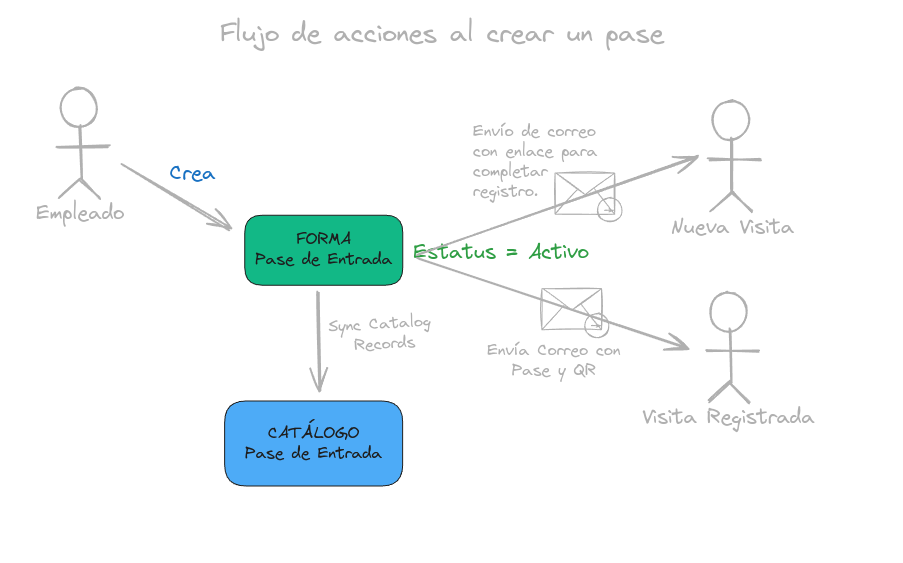
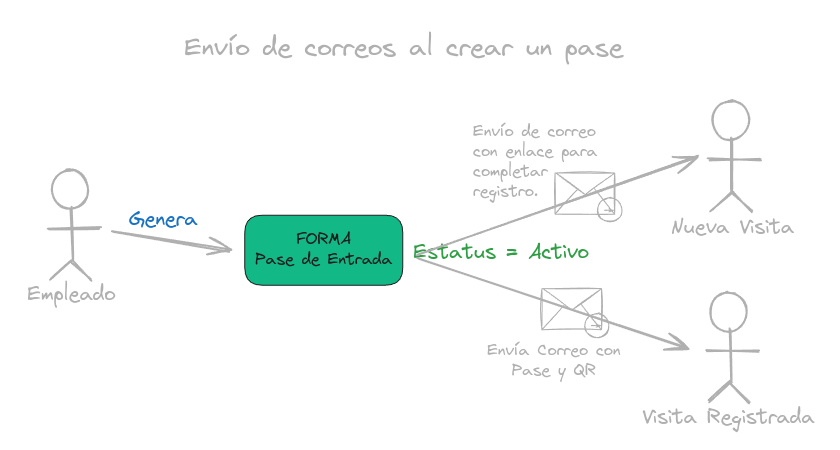
Actualización del módulo Seguridad, parte pases de entrada y módulo contratistas

diff --git a/content/Usuario/Modulos/Accesos/index.rst b/content/Usuario/Modulos/Accesos/index.rst
@@ -536,7 +536,29 @@ Observe el siguiente diagrama y revise las siguientes secciones para obtener má
 Catálogo: ``Tipos de Vehículos``
 ^^^^^^^^^^^^^^^^^^^^^^^^^^^^^^^^
 
-Este catálogo se instala con registros por defecto y contiene una lista de tipos de vehículos, marcas y modelos.
+Este catálogo contiene los diferentes tipos de vehículos que pueden ser registrados para las visitas. Revise las siguientes pestañas para obtener más detalles sobre la estructura del catálogo y ejemplos de registros.
+
+.. tab-set::
+
+   .. tab-item:: Estructura
+
+      Este catálogo incluye los siguientes campos:
+
+      - **Tipo de Vehículo**: Describe la categoría del vehículo, como automóvil, camioneta, moto, entre otros.
+      - **Marca**: Indica la marca del vehículo, por ejemplo, Toyota, Ford, Honda, etc.
+      - **Modelo**: Especifica el modelo del vehículo, proporcionando más detalles sobre la versión o variante de la marca.
+
+      .. image:: /imgs/Modulos/Accesos/Accesos68.png
+
+   .. tab-item:: Registros
+
+      Cada registro representa información específica sobre un vehículo.
+
+      .. image:: /imgs/Modulos/Accesos/Accesos69.png
+
+      .. note:: Al instalar el módulo, se incluyen registros precargados que abarcan la mayoría de los vehículos existentes. Sin embargo, considere agregar más registros según lo requiera.
+
+.. _form-pase-entrada:
 
 Forma: ``Pase de Entrada``
 ^^^^^^^^^^^^^^^^^^^^^^^^^^
@@ -553,12 +575,14 @@ Para responder la forma, revise las siguientes pestañas que detallan los campos
 
    .. tab-item:: Selección de Visitante
 
-      **Selección de Visitante**: Candidato para generar el pase de entrada. Consulte el siguiente menú desplegable para más detalles sobre las opciones disponibles.
+      **Selección de Visitante**: Persona para la cual se generará el pase de entrada.
 
-      .. image:: /imgs/Modulos/Accesos/Accesos46.png
+      Una vez que haya seleccionado al visitante y el pase esté en estado **Activo**, consulte el siguiente flujo que ilustra las acciones involucradas en la creación del pase de entrada. Para más detalles sobre las opciones, consulte el menú desplegable a continuación.
+
+      .. image:: /imgs/Modulos/Accesos/Accesos65.png
 
       .. dropdown:: Opciones
-         .. :open:
+
 
          .. tab-set::
 
@@ -624,7 +648,6 @@ Para responder la forma, revise las siguientes pestañas que detallan los campos
                   Observe el siguiente ejemplo de correo para un pase de entrada activo.
 
                   .. image:: /imgs/Modulos/Accesos/Accesos49.png
-                     :align: center
                      :width: 600 px
 
    .. tab-item:: Ubicación
@@ -658,7 +681,7 @@ Para responder la forma, revise las siguientes pestañas que detallan los campos
 
       .. image:: /imgs/Modulos/Accesos/Accesos53.png
 
-      .. hint:: Si observa que en el catálogo aparecen empleados de otra ubicación, asegúrese de que, en la forma, el catálogo esté correctamente relacionado con el catálogo **Ubicaciones** para filtrar correctamente a las personas según su ubicación.
+      .. hint:: Si observa que en el catálogo muestra empleados pertenecientes a otra ubicación, asegúrese de que, en la forma, el catálogo esté correctamente relacionado con el catálogo **Ubicaciones** para filtrar correctamente a las personas según su ubicación.
          
          Consulte :ref:`section-forms` :octicon:`report;1em;sd-text-info` para obtener más información sobre como relacionar catálogos.
 
@@ -670,7 +693,7 @@ Para responder la forma, revise las siguientes pestañas que detallan los campos
 
       .. image:: /imgs/Modulos/Accesos/Accesos54.png
       
-      .. hint:: Si observa que en el catálogo aparecen empleados de otra ubicación, asegúrese de que, en la forma, el catálogo esté correctamente relacionado con el catálogo **Ubicaciones** para filtrar correctamente a las personas según su ubicación.
+      .. hint:: Si observa que en el catálogo muestra empleados de otra ubicación, asegúrese de que, en la forma, el catálogo esté correctamente relacionado con el catálogo **Ubicaciones** para filtrar correctamente a las personas según su ubicación.
          
          Consulte :ref:`section-forms` :octicon:`report;1em;sd-text-info` para obtener más información sobre como relacionar catálogos.
 
@@ -680,14 +703,12 @@ Para responder la forma, revise las siguientes pestañas que detallan los campos
 
       .. .. image:: /imgs/Modulos/Accesos/Accesos55.png
 
-      **Fecha Fija**: El pase es válido para un solo día, útil para visitas de un solo día. 
+      **Fecha Fija**: El pase es válido para un solo día, útil para visitas espontaneas. 
                   
-      Si selecciona esta opción, deberá especificar la Fecha y hora de visita. Observe el ejemplo:
-                     
+      .. warning:: Si selecciona esta opción, deberá especificar la **fecha de vigencia** y la **hora límite** del pase. Esto significa que el pase será válido desde el inicio del día seleccionado hasta la hora indicada. Por ejemplo, si establece la hora límite a las 7:56 p.m., el pase será válido hasta esa hora y luego se considerará vencido.
+
       .. image:: /imgs/Modulos/Accesos/Accesos56.gif
       
-      .. warning:: Al seleccionar **Fecha Fija**, el pase solo estará vigente el día y hora indicados. Después de esa fecha y hora, el pase se considerará vencido.
-
       **Rango de fechas**: El pase es válido durante un rango de fechas, ideal para visitas recurrentes.
 
       Si selecciona esta opción, debe especificar lo siguiente:
@@ -706,11 +727,11 @@ Para responder la forma, revise las siguientes pestañas que detallan los campos
 
             - **Limitar número de accesos a**: Define cuántas veces por día la visita puede ingresar.
 
-            .. note:: Si no se especifica una cantidad, se asume que no hay límite de entradas por día.
+            .. attention:: Si no se especifica una cantidad, se asume que no hay límite de entradas por día.
 
-            - **Seleccione los días de acceso**: Seleccione los días específicos en los que la visita tendrá permiso para acceder.
+            - **Seleccione los días de acceso**: Días específicos en los que la visita tendrá permiso para acceder.
 
-            .. warning:: Aunque el pase tenga un rango de fechas vigente, si no selecciona los días específicos de acceso, podría causar problemas en la caseta de seguridad, ya que el sistema indicaría que en esos días la visita no debe estar en las instalaciones.
+            .. warning:: Aunque el pase tenga un rango de fechas vigente, si no selecciona los días de acceso, podría causar problemas en la caseta de seguridad, ya que el sistema indicaría que en esos días la visita no debe estar en las instalaciones.
 
          .. grid-item-card::
             :columns: 6
@@ -804,21 +825,35 @@ Para responder la forma, revise las siguientes pestañas que detallan los campos
 
    .. tab-item:: QR
       
-      Los siguientes campos son de solo lectura y se generan automáticamente a través de un script. Estos permanecen ocultos ya que no requieren interacción del usuario. 
+      Los siguientes campos se generan automáticamente a través de un script. Estos permanecen ocultos ya que no requieren interacción del usuario. 
 
       .. image:: /imgs/Modulos/Accesos/Accesos63.png
 
       - **QR**: Código QR generado para el pase de entrada.
       - **QR Code**: Identificador del pase de entrada.
 
-Siga el flujo para comprender el proceso que ocurre al responder la forma.
+.. attention::
 
-.. image:: /imgs/Modulos/Accesos/Accesos65.png
+   Los registros de esta forma son utilizadas en otras formas, por lo que es necesario que estén disponibles también en un catálogo. Los registros de esta forma deben estar sincronizados con el catálogo `Pase de Entrada <#catalog-pase-entrada>`_ :octicon:`report;1em;sd-text-info`. Para más detalles, consulte el catálogo y revise los siguientes ejemplos de registros:
 
-Sincronización y Notificaciones
-La forma **Pase de Entrada** se sincroniza automáticamente con el catálogo **Pase de Entrada**. A continuación, se describen los campos necesarios para responder la forma:
+   .. image:: /imgs/Modulos/Accesos/Accesos66.png
+      :width: 880px
 
-Al completar y enviar la forma, la información se sincroniza automáticamente con el catálogo **Pase de Entrada**. El visitante recibirá un correo electrónico con su invitación, dependiendo de si es un nuevo visitante o un visitante registrado.
+.. _catalog-pase-entrada:
+
+Catálogo: ``Pase de Entrada``
+^^^^^^^^^^^^^^^^^^^^^^^^^^^^^
+
+Este catálogo contiene los mismos registros que de la forma `pase de entrada <#form-pase-entrada>`_ :octicon:`report;1em;sd-text-info`. 
+
+Su estructura es similar a la de la forma, pero a diferencia de esta, los catálogos no pueden incluir campos de grupo repetitivo. Sin embargo, es posible sincronizar registros entre la forma y el catálogo, omitiendo la información de los grupos repetitivos. Por lo tanto, no es necesario completar el catálogo manualmente; simplemente complete la forma para crear un pase de entrada y LinkaForm se encargará de sincronizar automáticamente el registro en este catálogo.
+
+.. note:: Para asegurarse de que la sincronización funcione correctamente, si se agregan nuevos campos (que no sean grupos repetitivos) en la forma, asegúrese de incluirlos también en el catálogo.
+
+Para más detalles de la estructura consulte la forma y observe los registros que se presentan a continuación:
+
+.. image:: /imgs/Modulos/Accesos/Accesos67.png
+   :width: 880px
 
 .. LIGAS EXTERNAS
 

diff --git a/content/Usuario/Modulos/Contratistas/index.rst b/content/Usuario/Modulos/Contratistas/index.rst
@@ -4,17 +4,22 @@
 Módulo Contratistas
 ===================
 
-El **Módulo Contratistas** proporciona los elementos base necesarios para gestionar y administrar la información de múltiples contratistas. Este módulo es importante para el :ref:`doc-accesos` :octicon:`report;1em;sd-text-info`.
+El **Módulo Contratistas** facilita la gestión y administración de la información de múltiples contratistas, además de permitir la ejecución de procesos específicos que involucran a los contratistas.
 
-Observe y analice el siguiente diagrama de flujo del módulo compañía. Este diagrama representa el flujo de acciones necesarias para registrar y gestionar la información de los contratistas.
+.. warning:: Este módulo es importante para el :ref:`doc-accesos` :octicon:`report;1em;sd-text-info`.
+
+Alta de Contratistas
+====================
+
+Observe y analice el siguiente diagrama de flujo. Este diagrama representa el flujo de acciones necesarias para registrar y gestionar la información de los contratistas.
 
 .. image:: /imgs/Modulos/Contratistas/Contratistas1.png
     :align: center
 
 .. _form-contratistas:
 
-Forma del Módulo Contratistas
-=============================
+Forma: ``Contratistas`` 
+^^^^^^^^^^^^^^^^^^^^^^^
 
 La forma **Contratistas** permite ingresar y gestionar toda la información relevante sobre los diferentes contratistas.
 
@@ -75,8 +80,8 @@ Una vez completada la solicitud, proceda con la autorización dentro de la empre
             
 .. _catalog-contratistas:
 
-Catálogo del Módulo Contratistas
-================================
+Catálogo: ``Contratistas`` 
+^^^^^^^^^^^^^^^^^^^^^^^^^^
 
 El catálogo **Contratistas** contiene los mismos registros que de la `forma contratistas <#form-contratistas>`_ :octicon:`report;1em;sd-text-info`.
 
@@ -100,8 +105,8 @@ Para acceder al catálogo, seleccione la opción ``Catálogos > Catálogos`` en 
 
 .. _alta-contratista:
 
-Alta de Contratista
-===================
+Completar Alta de Contratista
+=============================
 
 Si es contratista, siga siga los siguientes pasos para completar su alta:
 
@@ -113,7 +118,7 @@ Si es contratista, siga siga los siguientes pasos para completar su alta:
 .. image:: /imgs/Modulos/Contratistas/Contratistas5.png
 
 3. Presione el hipervínculo al final del correo. Será redirigido a una nueva pestaña con una forma prellenada.
-4. Revise que los datos generales registrados sean correctos, de lo contrario, actualícelos.
+4. Revise que los datos generales registrados sean correctos, de lo contrario actualice la información.
 5. Complete la sección de documentos y suba los archivos requeridos.
 6. Cambie el ``Estatus Solicitud`` a ``Completada`` **solo si** ha completado toda la información solicitada. De lo contrario, no modifique el ``estatus`` hasta que termine su captura.
 
@@ -125,11 +130,49 @@ Si es contratista, siga siga los siguientes pasos para completar su alta:
 
 .. _carga-permisos-visitas:
 
-Carga de Permisos de Visitantes
-===============================
+Carga de Permisos para Empleados
+================================
 
-lorem
+La carga de permisos es el proceso mediante el cual los contratistas se encargan de registrar o cargar los permisos necesarios para sus empleados, según los requisitos establecidos por la empresa o la ubicación a la que buscan acceder.
 
+Este proceso permite que los empleados obtengan la autorización de acceso una vez que cumplan con los permisos solicitados, asegurando que todos los requisitos estén en regla antes de otorgarles el acceso a la instalación.
+
+Forma: ``Carga de Permisos de Visitantes``
+^^^^^^^^^^^^^^^^^^^^^^^^^^^^^^^^^^^^^^^^^^
+
+Esta forma está diseñada para facilitar la administración de los permisos requeridos para los visitantes, permitiendo cargar documentación, establecer fechas de vigencia y proporcionar otros detalles relevantes. A través de esta forma, se asegura que todos los permisos solicitados estén debidamente registrados y actualizados para permitir el acceso autorizado a las instalaciones.
+
+Revise las siguientes pestañas para obtener más detalles sobre la estructura de la forma y ejemplos de registros.
+
+.. tab-set::
+
+    .. tab-item:: Estructura
+
+        La forma está compuesta por los siguientes campos:
+
+        - **Razón Social**: 
+
+        .. caution:: Solo podrá ver su propia razón social. Si por algún motivo visualiza una razón social diferente a la suya, omita esa información y no la seleccione bajo ninguna circunstancia, ya que se trata de información clasificada de otros contratistas.
+
+        - **Nombre completo**: Seleccione al visitante al que se le cargará el permiso.
+        - **Permiso**: Identifique el tipo de permiso o certificación requerida.            
+        - **Documento**: Suba una copia digital del documento que acredita el permiso.
+        - **Fotografía**: Añada una imagen del documento para respaldo visual.
+        - **Fecha de Expedición**: Fecha en la que fue expedido el permiso.
+        - **Fecha de Caducidad**: Fecha en la que el permiso dejará de ser válido.
+
+        .. warning:: Si el permiso está próximo a vencer, asegúrese de actualizar la información para evitar restricciones en el acceso del visitante, ya que la forma no realiza estos cálculos automáticamente. Actualmente, se está trabajando en mejorar este proceso.
+
+        - **Estatus de Autorización**: Indica el estado actual del permiso (Pendiente, Autorizado, En Revisión).
+
+        .. note:: i el estatus de la autorización del permiso no es Autorizado, el visitante no podrá acceder a las instalaciones, ya que el permiso aparecerá como no válido en el pase de entrada.
+
+        - **Estatus de Documento**: Refleja el estado del documento (Activo, Vencido).
+
+    .. tab-item:: Registros
+
+        .. image:: /imgs/Modulos/Contratistas/Contratistas6.png
+    
 Ha completado con éxito el proceso de configuración y utilización del módulo de contratistas. Recuerde que este módulo es adaptable a sus necesidades, lo que significa que puede ajustarlo según lo requiera.
 
 Si tiene alguna duda o necesita asistencia técnica, no dude en ponerse en contacto con nuestro equipo de soporte.
